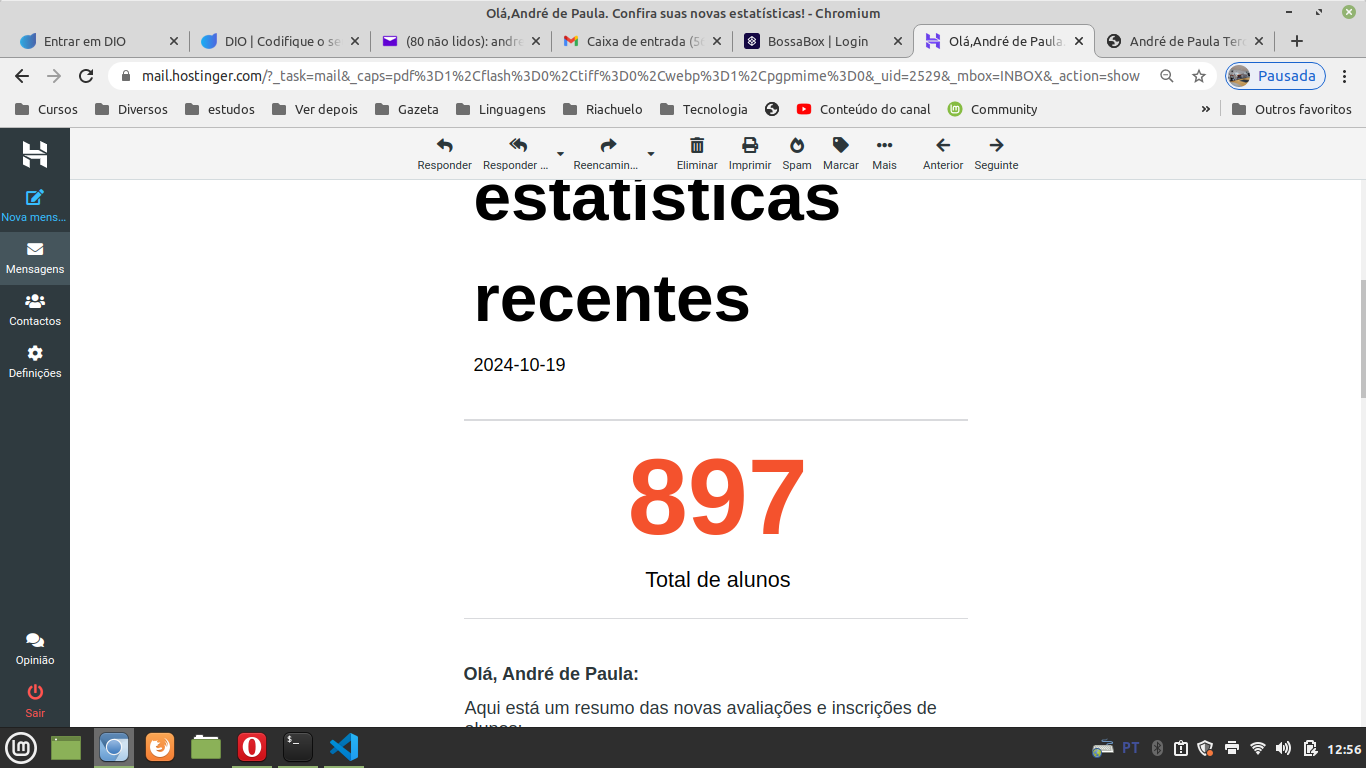
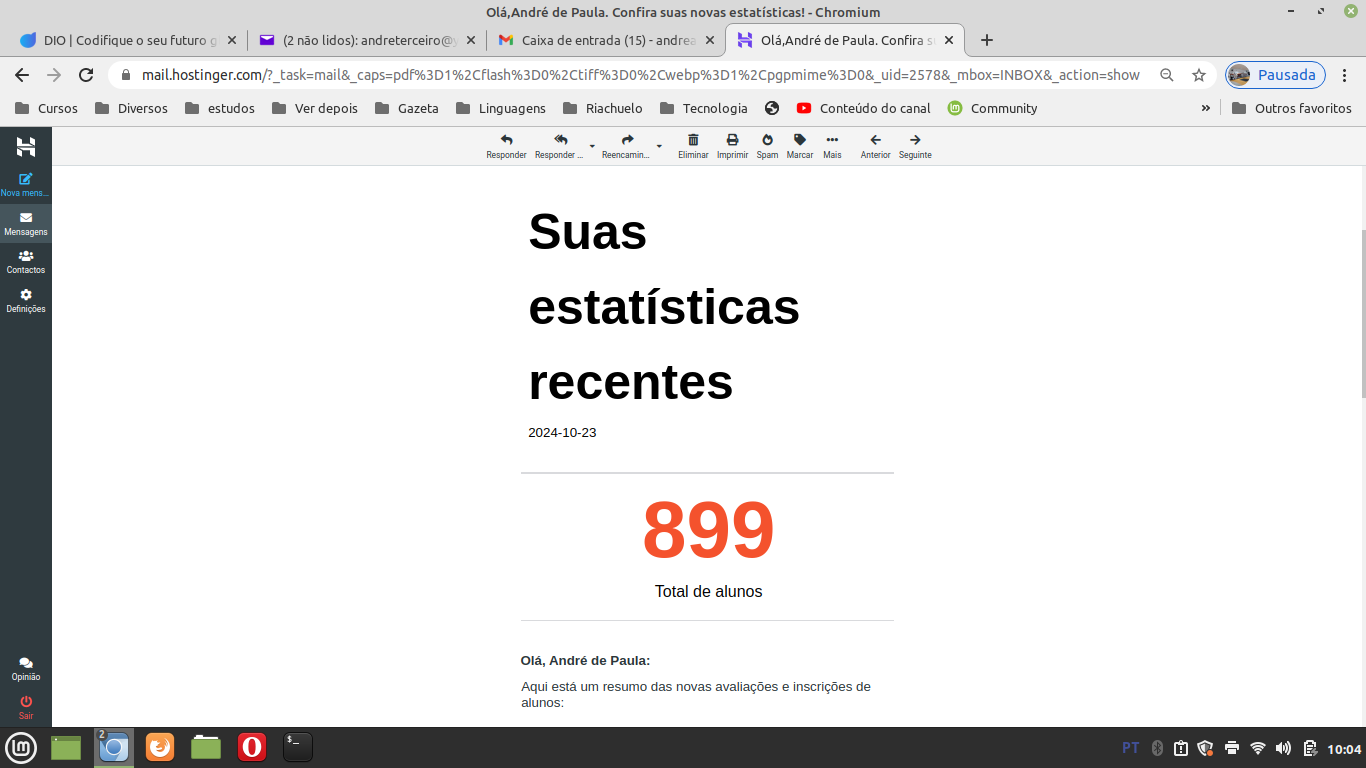
Updating the number of students in my Git course in Udemy

diff --git a/git.html b/git.html
@@ -6,7 +6,7 @@
         <div>
             Eu ministro um curso gratuito de Git na Udemy. O link <a href="https://www.udemy.com/course/basico-de-git/learn/lecture/30259040#overview" target="_blank">é este</a>. 
             <br /><br />
-            <a href="numero-alunos-curso-udemy.png" target="_blank" />Tenho 897 alunos lá</a><br />
+            <a href="numero-alunos-curso-udemy.png" target="_blank" />Tenho 899 alunos lá</a><br />
             <br /><br />
             No LinkedIN eu passei no teste de Git :)<br />
             <img src="aprovacao-teste-git-linkedin.jpg" />
